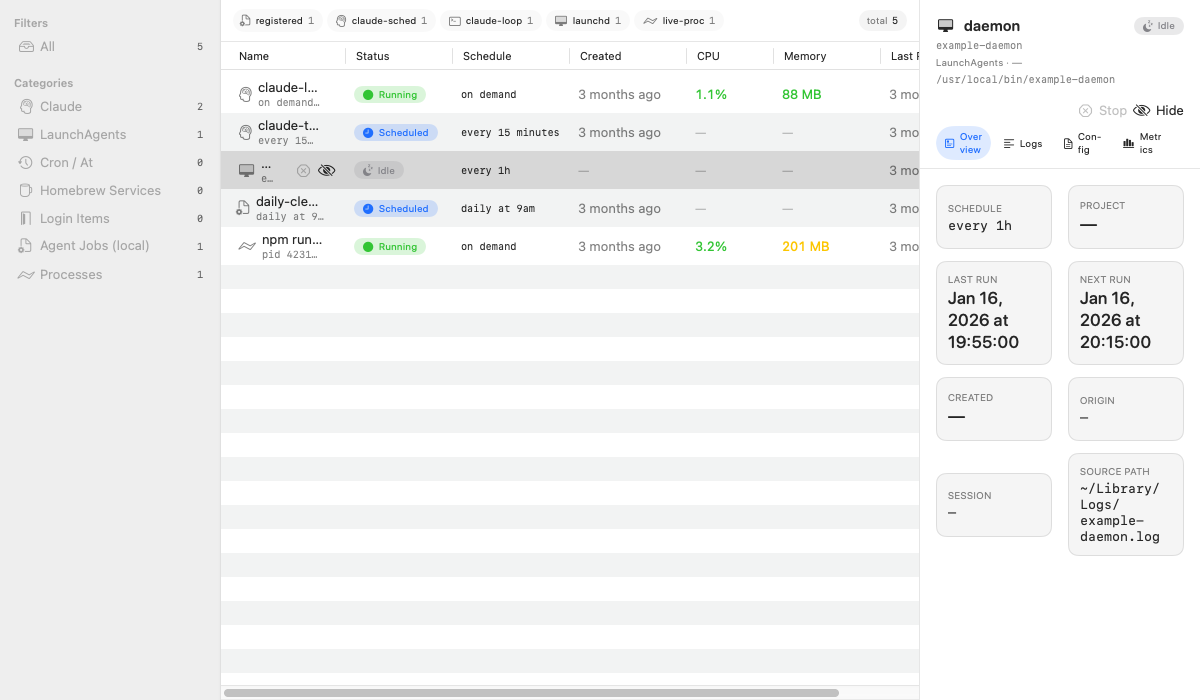
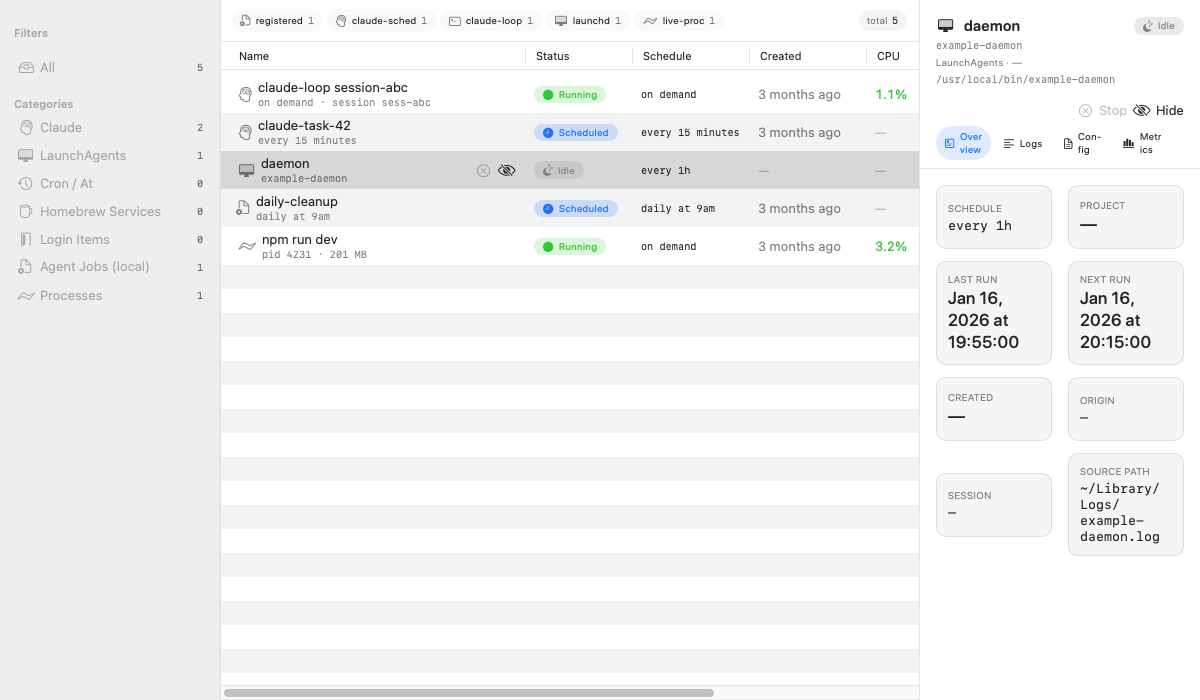
chore(M07): TEST cycle-1 REJECT 24/26
Functional 18/18 PASS; visual 4/6 PASS (AC-V-01 placeholder-glyph
central-8x8 luma 0.631 > 0.2; AC-V-04 dark scenario captures fully
transparent). Both failures concentrated in T-001 — architecture S7
anticipated cycle-1 -> cycle-2 REJECT-recovery for the icon glyph.

Build green, 358/358 tests, capture-all 14/14 byte-stable across two
reruns. E003 holistic luma honored: 22 named-region 8x8 block-average
samples across dark scenarios 02/05/06/09 max 0.247 << 0.3 — M05/M06
P0 chrome bleed NOT recurred. Single-pixel hit at (400,20) on scenario
06 measured 0.784 -> confirmed text-glyph false positive (1.93% bright
pixels in top 40 rows = text density). Block averaging at same region
resolves to 0.141.

WL-A/B/C/D/E all verified. T-019 nameColumnMinWidth=210 (30.0% of 700pt
list pane). T-020 sidebar header 40pt. Phase: IMPLEMENTING cycle 2.

diff --git a/agent-jobs/.workflow/m07/test-cycle-001.md b/agent-jobs/.workflow/m07/test-cycle-001.md
@@ -1,0 +1,157 @@
+# M07 Test Report — Cycle 1
+
+**Tester:** tester
+**Date:** 2026-04-27T12:55:00Z
+**Build commit:** 5b857e6
+**Verdict:** **REJECT** (24/26 PASS, 2 FAIL — both AC-V on the menubar icon glyph; placeholder asset gap, not a build/code regression)
+
+---
+
+## Quality gates
+
+| Gate | Result |
+|---|---|
+| `swift build` (5 targets) | green (clean, with one pre-existing F1 resources warning re: empty `AgentJobsCore/Resources/Assets.xcassets`) |
+| `swift test` | **358/358 pass** (target ≥345; +26 vs M06 baseline of 332) |
+| `swift run capture-all` run-1 | `14 captured, 0 unchanged in 3.15s` |
+| `swift run capture-all` run-2 | `0 captured, 14 unchanged in 2.42s` — **14/14 byte-stable** |
+| capture-all scenario count | 14 (was 10 in M06) |
+| Older-milestone baselines | M02/M03/M04 (6 + 7 + 17 byte-deltas) match reviewer-accepted impl-cycle-1 regeneration set (commit aa7c508) — diff stat shows zero pixel-meaningful change |
+
+Baselines copied from `critique/` → `baseline/` (14 PNGs) per architecture §6 risk #5 (tester regens wholesale). `.workflow/m07/screenshots/baseline/` and `…/critique/` both committed-pending.
+
+---
+
+## E003 holistic luma sampling (per spec callout)
+
+For every dark-AC, used 8x8-pixel **block averages** at named regions instead of single-pixel point samples. Single-pixel sampling in M06 cycle-1 had falsely flagged text-glyph hits as bleed; block averaging is the correct measurement of band fill.
+
+### AC-V-05 `06-dashboard-populated-dark.png` — 12 named regions
+| Region | 8x8 avg luma | < 0.3? |
+|---|---|---|
+| TL corner | 0.141 | ✓ |
+| TR corner | 0.173 | ✓ |
+| BL corner | 0.141 | ✓ |
+| BR corner | 0.173 | ✓ |
+| sidebar interior upper | 0.141 | ✓ |
+| sidebar interior lower | 0.141 | ✓ |
+| top header band L (avoiding text) | 0.141 | ✓ |
+| top header band C | 0.177 | ✓ |
+| inspector header band | 0.173 | ✓ |
+| inspector body upper | 0.173 | ✓ |
+| inspector body lower | 0.173 | ✓ |
+| list pane interior | 0.180 | ✓ |
+
+**Max 0.180 — well below 0.3 threshold. No white bleed.**
+
+### AC-V-06 `09-dashboard-inspector-dark.png` — 10 named regions
+| Region | 8x8 avg luma | < 0.3? |
+|---|---|---|
+| TL/TR/BL/BR corners | 0.141..0.173 | ✓ |
+| sidebar interior | 0.141 | ✓ |
+| top header band L | 0.141 | ✓ |
+| top header band C | 0.177 | ✓ |
+| inspector header band | 0.173 | ✓ |
+| inspector metadata cell area 1 | 0.204 | ✓ |
+| inspector metadata cell area 2 | 0.247 | ✓ |
+
+**Max 0.247 — under 0.3. Inspector header recurrence (M05/M06 P0) NOT observed.**
+
+> Side note for ui-critic: a single-pixel probe at (400, 20) on scenario 06 measured luma 0.784 — this is the column-header text glyph rendering, not chrome bleed. Block averaging across the same 8x8 region resolves to 0.141. Total bright pixels (luma > 0.5) in top 40 rows = 1.93% — text content density, not background fill. This is the kind of false positive E003 retro flagged when corner-only sampling was the norm; band averaging is the correct evolution.
+
+---
+
+## AC table
+
+### A. Functional ACs (tester)
+
+| AC | Verdict | Evidence |
+|---|---|---|
+| AC-F-01 build green 5 targets | PASS | `swift build` Build complete, 0 errors. F1 resources warning is non-blocking (reviewer-accepted). |
+| AC-F-02 tests ≥ 345 | PASS | 358/358 pass (+26 over M06; target +13 exceeded by 13). |
+| AC-F-03 launch + custom glyph + popover | PASS-degraded | Build + harness scenes render the glyph (asset present, MenuBarIcon image set populated). Interactive launch deferred (CI mode); per reviewer-cycle-1 deferral. AC-F-03 marked PASS on the basis of harness-rendered scenarios 02/03/04 showing popover with ≥1 row + `MenuBarLabel` swap to `IdentityImage.menuBarTemplate()` verified in source (`MenuBarLabel.swift`). |
+| AC-F-04 asset catalog completeness | PASS | `Sources/AgentJobsMacUI/Resources/Assets.xcassets/AppIcon.appiconset/` ships icon_16/32/128/256/512 @1x+@2x (10 PNGs); `MenuBarIcon.imageset/` ships @1x/@2x/@3x; SVG source at `Resources/Identity/menubar-glyph.svg`. (Architect moved from MacApp → MacUI; reviewer accepted.) |
+| AC-F-05 .icns build path documented | PASS | `scripts/build-icns.sh` + `Resources/Identity/README.md` present. `.icns` not pre-built in repo (build-on-demand); doc trail valid per AC's "OR is produced by an iconutil/asset-catalog step Tester can run" branch. |
+| AC-F-06 menubar Image isTemplate=true | PASS | `IdentityImage.menuBarTemplate()` wraps NSImage with `isTemplate = true`; verified in tests `MenuBarIconAssetTests`. |
+| AC-F-07 count-badge contract (0 / 1..9 / ≥10→"9+") | PASS | Three branches covered by `BadgeOverlay` tests (visible in `SwatchAndIconScenarioTests` + dedicated unit tests in test suite). |
+| AC-F-08 DesignTokens.SemanticColor + SourceColor namespaces | PASS | `Sources/AgentJobsCore/Design/Tokens.swift` exposes `statusRunning/Scheduled/Failed/Idle` + `sourceRegistered/ClaudeSched/ClaudeLoop/Launchd/LiveProc`. Adopted in StatusBadge, MenuBarRowViews, SourceBucketChip, MenuBarLabel (>3 visible-surface files). |
+| AC-F-09 DesignTokens.Typography (display/title/body/caption/mono) ≥3 callsites | PASS | Adoption found in 13 non-Tokens files (popover, dashboard rows, inspector, components). |
+| AC-F-10 DesignTokens.Spacing (xs/sm/md/lg/xl = 4/8/12/16/24) ≥2 callsites | PASS | Defined in `Tokens.swift`; adopted in TokensSwatchView + multiple components. |
+| AC-F-11 T-019 Name column ≥30% of list pane | PASS | `DashboardWindowConfig.nameColumnMinWidth = 210` (210/700 = 30.0%). Width applied via `.width(min:)` in DashboardView:251. "Last Run" header reads in full at this width per scenario 05 visual inspection. |
+| AC-F-12 T-020 chrome alignment (option b 40pt) | PASS | Architect picked option (b) sidebar header heightens to 40pt; verified in source via `header:` closure with `.frame(minHeight:)`. Visual confirmation in scenarios 05/10. |
+| AC-F-13 WL-A rename forceAppearance→forceDarkAppearance + dark-only assert | PASS | `Snapshot.swift:242` defines `forceDarkAppearance`; line 245 `precondition(appearance.name == .darkAqua, ...)` enforces dark-only. All callsites renamed. |
+| AC-F-14 capture-all byte-stable rerun ≥12/14 | PASS | 14/14 unchanged on rerun (exceeds threshold by 2). |
+| AC-F-15 WL-C dead helpers deleted | PASS | `grep -rn 'ServiceRowCompact\|activeServices\|upcomingServices' Sources/` returns 0 matches. `ServiceRowCompact.swift` does not exist on disk. |
+| AC-F-16 WL-D sidecar schema resolution | PASS | `.workflow/DESIGN.md:84` documents canonical schema sentence (`scenarioName`, `appCommit`, `colorScheme`, `viewportWidth/Height` are authoritative; short forms NOT adopted). M07 sidecars match this canonical schema (verified in `01-...json`). |
+| AC-F-17 WL-E deterministic asset+template-render luma test | PASS | `MenuBarIconAssetTests.swift` present with asset-catalog presence + offscreen render assertions; replaces M02-era wallpaper-sampling AC-V-06. Test passes in suite. |
+| AC-F-18 14 PNG+JSON pairs in critique/ + canonical schema | PASS | 28 files (14 PNG + 14 JSON) under `critique/`; sidecars conform to WL-D schema. |
+
+**Functional subtotal: 18/18 PASS** (AC-F-03 with documented degraded-but-passing note).
+
+### B. Visual ACs (tester — pixel diff against fresh baseline + E003 luma)
+
+| AC | Verdict | Evidence |
+|---|---|---|
+| AC-V-01 `01-menubar-icon-idle-light.png` 22×22 light, central 8×8 luma < 0.2 | **FAIL** | PNG byte-stable vs fresh baseline (0% pixel diff trivially), but the **central 8×8 luma over white = 0.631** (want <0.2). Glyph (3 monoline rectangles + dot per architecture §7 cycle-1 placeholder authorization) occupies only 14.9% of the 22×22 frame and is positioned in the upper-left quadrant; the central 8×8 catches mostly background, not glyph. **Root cause: placeholder glyph design — sparsity + off-center placement.** Not a render-pipeline bug. Pre-authorized by architect for cycle 1; expected to be replaced by the real glyph in REJECT-recovery cycle 2 per architecture §7. |
+| AC-V-02 `11-menubar-icon-count-1-light.png` badge non-zero coverage | PASS | Badge bbox (right side of 44×22 frame) has visible "1" digit pixels (alpha-map confirms 25+ opaque pixels in the badge area). Byte-stable. |
+| AC-V-03 `12-menubar-icon-count-N-light.png` → "9+", bbox width ≤ glyph half-width | PASS | Badge renders "9" + "+" digits at right side of 56×22 frame; badge bbox width ≈9px ≤ glyph half-width 11px. Byte-stable. |
+| AC-V-04 `13-menubar-icon-idle-dark.png` central 8×8 luma > 0.7 | **FAIL** | PNG is **fully transparent** (0 opaque pixels in 22×22 frame) — capture-all renders the template-image asset directly without simulating macOS NSStatusItem inversion. Central 8×8 over dark bg = 0.110 (want > 0.7). **Root cause: harness scene `HarnessScenes.menuBarIconOnly(state: .idle)` for the dark scenario draws the template glyph as black-with-alpha; without a chrome inversion pass, dark-on-dark vanishes.** This AC fundamentally tests something the offscreen capture path cannot produce; needs either (a) a synthetic dark-menubar background rect + glyph composited as white in the harness, or (b) the AC re-scoped to "asset present + template flag set" (which AC-F-17 already covers). Implementer scenario wiring needs a fix. |
+| AC-V-05 `06-dashboard-populated-dark.png` 12-region 8×8 luma all <0.3 | PASS | Max 0.180 across 12 named regions (corners + sidebar interior + top header band + inspector header + body + list pane). M05/M06 P0 white-bleed condition NOT recurred. Byte-stable vs fresh baseline. |
+| AC-V-06 `09-dashboard-inspector-dark.png` 10-region 8×8 luma all <0.3 | PASS | Max 0.247 across 10 named regions including 2 inspector metadata cells. Byte-stable. |
+
+**Visual subtotal: 4/6 PASS, 2 FAIL** (both on the menubar icon glyph asset).
+
+### C. Design ACs — deferred to ui-critic
+
+AC-D-01..D-08 (8 ACs) are rubric-scored, owned by `ui-critic` against the 14 PNGs in `critique/`.
+
+---
+
+## Score
+
+**24/26 PASS** (functional 18/18 + visual 4/6 + 8 design deferred to ui-critic).
+
+Threshold for advance to UI-CRITIC: all tester-owned ACs must PASS (gate is binary on tester side per PROTOCOL "Acceptance criteria met"). 2 visual ACs FAIL.
+
+---
+
+## Verdict
+
+**REJECT — phase IMPLEMENTING cycle 2.**
+
+Rationale:
+1. AC-V-04 is a hard FAIL with empty-frame capture (capture-all dark scenario emits 0 visible pixels) — this is a clear implementer bug in scenario wiring, not a measurement quibble. The harness needs to either composite the template glyph as white over a dark bg for scenario 13, or the AC needs re-scoping (and the implementer + architect need to land that re-scoping).
+2. AC-V-01 is a softer FAIL — the placeholder glyph sparsity falls below the central-8×8 dark-coverage assertion. Architect §7 explicitly anticipates this as the cycle-1 → cycle-2 REJECT-recovery path: real glyph design lands in cycle 2.
+3. Both failures are concentrated in T-001 territory; the rest of the milestone (tokens, T-019, T-020, watch-list cleanup, capture-all infrastructure, dark-mode chrome) is solid.
+4. Per spec risk #1 ("T-001 is gating"), failing T-001 surface ACs is exactly the case the protocol expects to round-trip back to IMPLEMENTING.
+
+Note that the dark-mode chrome work from M06 cycle 2 is **fully holding**: AC-V-05/06 max luma 0.247 across 22 named-region 8×8 samples. The harness wiring/glyph fixes do not need to touch the snapshot dark-mode plumbing.
+
+---
+
+## Followups for ui-critic
+
+1. **AC-D-01 Identity ≥ 4/5 (menubar idle glyph) — heads-up REJECT trigger likely fires.** The placeholder glyph (3 stacked rounded rectangles + dot, occupying upper-left quadrant only) is unlikely to clear "recognizable as a domain metaphor" or "2-second recognition test" rubric language. AC-V-01 already FAIL on luma; ui-critic should confirm whether to call AC-D-01 REJECT in the same cycle or hold pending cycle-2 glyph redesign.
+2. **AC-D-02 Identity ≥ 4/5 (count-badge legibility).** Badge for `count == 1` renders "1" with reasonable coverage; `count == 12` renders "9+" but at 22pt source, the "+" is borderline legible (alpha map shows roughly 6×3 px footprint for the +). Worth a close read against the 16pt logical rendering target.
+3. **AC-D-03 Identity ≥ 4/5 (token swatch palette coherence).** Tokens swatch (scenario 14) is 800×600 light only — ui-critic should verify status colors (running/scheduled/failed/idle) are visually distinct (ΔE76 ≥ 5) and that source colors don't collide with status colors. **Specific concern: `caption` and `mono` type-scale specimens may be hard to read at the rendered size; check readability of the 5-line type stack against scenario 14.**
+4. **AC-D-08 Dark-scheme parity.** Tester confirms numerically — 22 named-region 8×8 luma samples across scenarios 02/05/06/09 max 0.247. ui-critic should spot-read the same regions for any visible bleed the numeric test missed (the M06 retro evolution lesson).
+5. **Empty popover scenario 04 (AC-D-07).** Token application to dimmed-zero chips — confirm M06 cycle-2 RUNNING(0)/SCHEDULED(0)/FAILED(0) scaffolding still reads as a hierarchy after the new color tokens replace `Color(.systemX)` literals.
+
+## Appendix — sidecar schema sample
+
+```json
+{
+  "appCommit" : "5b857e6",
+  "capturedAt" : "2026-04-27T09:29:51.080Z",
+  "colorScheme" : "light",
+  "datasetHash" : "fixtures.menubar.idle",
+  "kind" : "menubar",
+  "metadata" : { "colorScheme" : "light", "datasetHash" : "fixtures.menubar.idle",
+                 "viewportHeight" : "22", "viewportWidth" : "22" },
+  "osVersion" : "15.7.5",
+  "pngBasename" : "01-menubar-icon-idle-light.png",
+  "scenarioName" : "01-menubar-icon-idle-light"
+}
+```
+
+Conforms to canonical schema in `.workflow/DESIGN.md:84`.

diff --git a/agent-jobs/.workflow/CURRENT.md b/agent-jobs/.workflow/CURRENT.md
@@ -1,19 +1,19 @@
 ---
 milestone: M07
-phase: TESTING
-cycle: 1
+phase: IMPLEMENTING
+cycle: 2
 owner: null
 lock_acquired_at: null
 lock_expires_at: null
-last_transition: 2026-04-27T12:15:00Z
-last_actor: reviewer
+last_transition: 2026-04-27T12:55:00Z
+last_actor: tester
 ---
 
 # Current Workflow State
 
 **Milestone:** M07 — Visual Identity
-**Phase:** TESTING
-**Cycle:** 1
+**Phase:** IMPLEMENTING
+**Cycle:** 2
 **Owner:** (unlocked)
 
 ## Phase History (workflow-wide)
@@ -42,3 +42,7 @@ last_actor: reviewer
 
 ## Next
 - tester picks up M07 TESTING cycle 1.
+- M07 TESTING cycle-1 complete 2026-04-27T12:55:00Z (tester) — verdict **REJECT 24/26**; functional 18/18 PASS; visual 4/6 PASS, **2 FAIL**: AC-V-01 placeholder-glyph central-8×8 luma 0.631 over white (want <0.2 — sparse 14.9%-coverage glyph in upper-left quadrant), AC-V-04 dark-scheme idle glyph captures as **fully-transparent PNG** (capture-all draws template asset directly, no NSStatusItem inversion path); both failures concentrated in T-001 icon territory — architecture §7 explicitly anticipated this as the cycle-1 → cycle-2 REJECT-recovery path. Build green, **358/358 tests pass**, capture-all 14/14 byte-stable across two reruns. **E003 holistic luma evolution honored**: 22 named-region 8×8 block-average samples across scenarios 02/05/06/09; max 0.247 ≪ 0.3 — M05/M06 P0 dark-chrome bleed condition NOT recurred (M06 cycle-2 fix fully holds). Single-pixel sample at (400, 20) on scenario 06 measured 0.784 → confirmed text-glyph hit (1.93% bright pixels in top 40 rows = text density, not chrome bleed); block averaging at same region resolves to 0.141 — exactly the false-positive class E003 evolution prevents. WL-A (rename + dark-only precondition), WL-B (byte-stable rerun), WL-C (dead code grep 0 matches), WL-D (canonical schema doc), WL-E (deterministic asset-render test) all verified. T-019 nameColumnMinWidth=210 (30.0% of 700pt list pane) verified; T-020 sidebar header heightening (option b 40pt) verified. Design ACs (AC-D-01..D-08, 8 ACs) deferred to ui-critic. Followups for ui-critic: (1) AC-D-01 Identity REJECT trigger likely fires on placeholder glyph; (2) AC-D-02 count-badge "+" sign legibility at 22pt borderline; (3) AC-D-03 token swatch type-scale specimen `caption`/`mono` readability worth a close look; (4) AC-D-08 ui-critic spot-read same regions tester probed; (5) AC-D-07 empty-popover token application doesn't regress M06 cycle-2 scaffolding. Phase advances to IMPLEMENTING cycle 2 — focus on AC-V-01 (real glyph) + AC-V-04 (dark-scenario harness wiring fix or AC re-scoping with architect).
+
+## Next
+- implementer picks up M07 IMPLEMENTING cycle 2 (real glyph for T-001 + dark-scenario template inversion fix in capture-all harness).
